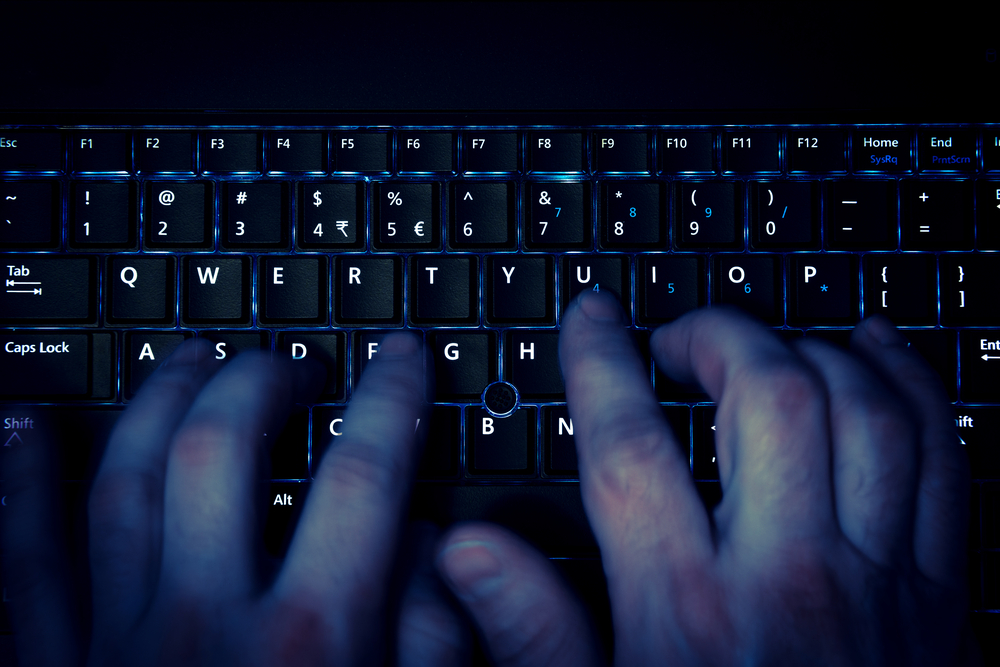
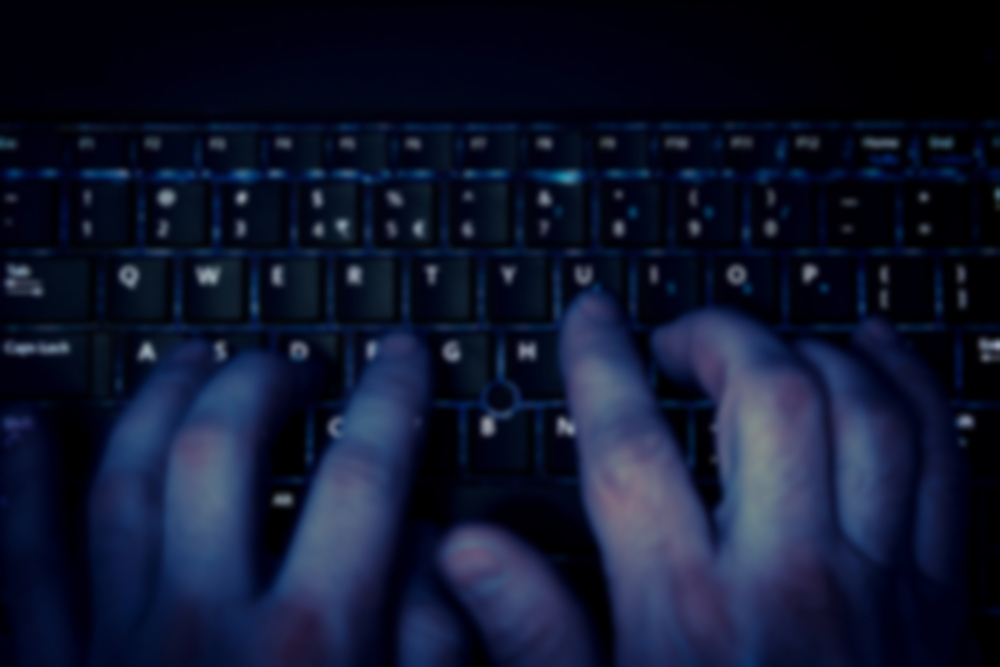
background

diff --git a/static/css/app.css b/static/css/app.css
@@ -4,7 +4,7 @@ background: url('keyboards.jpg') no-repeat fixed;
   -moz-background-size: cover;
   -o-background-size: cover;
   background-size: cover;
-  opacity: 0.6;
+  
 }
 
 body,
